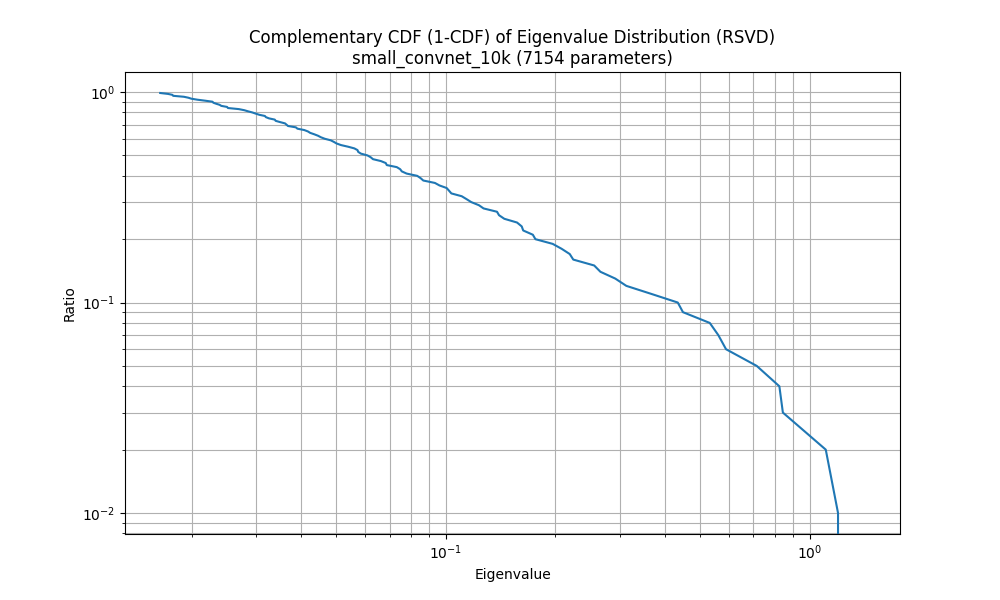
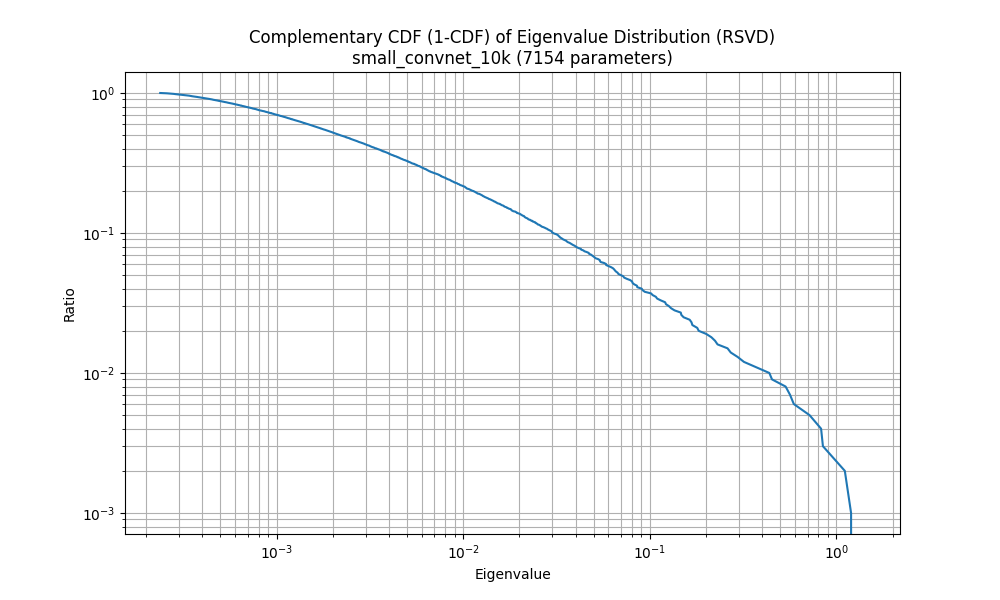
re-run experiments with k=1000

Changed region(s): [[0.093, 0.12, 0.899, 0.93]]

diff --git a/model_interpretation/fisher_information_rsvd.py b/model_interpretation/fisher_information_rsvd.py
@@ -253,7 +253,7 @@ def main(model, model_name, data_loader):
     
     # Calculate Fisher Information Matrix using RSVD
     fim_start_time = time.time()
-    k = 100  # Number of components to extract
+    k = 1000  # Number of components to extract
     power_iterations = 1  # Number of power iterations
     U, S, V, error = calculate_fisher_rsvd(model, train_loader, k, power_iterations)
     fim_end_time = time.time()
